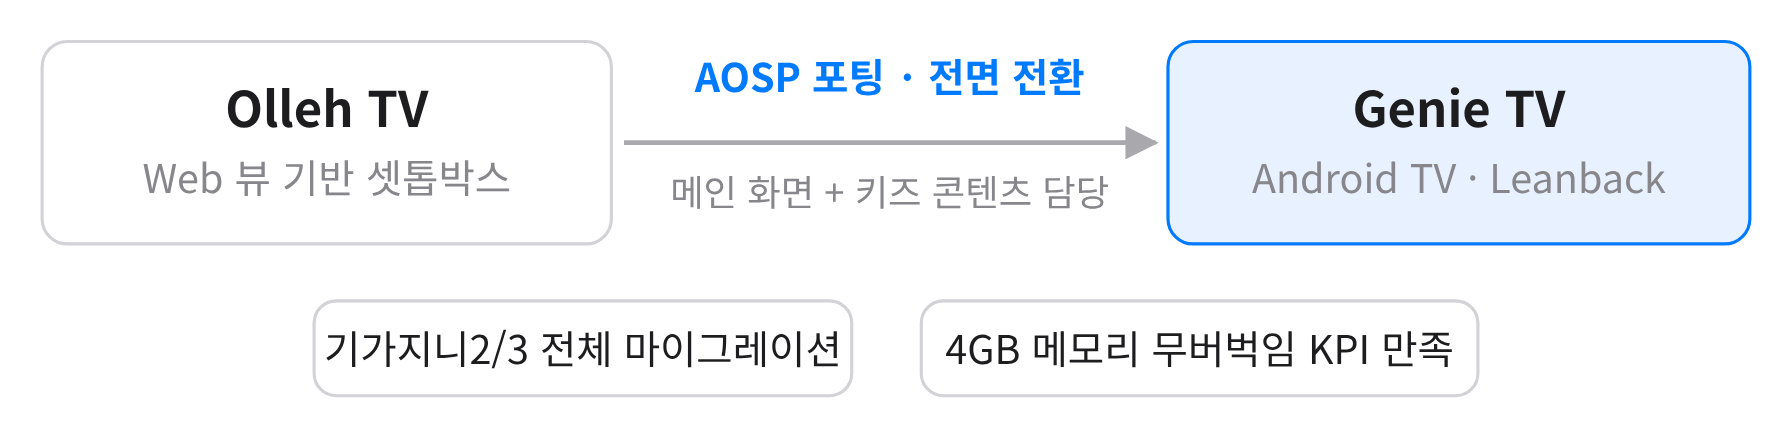
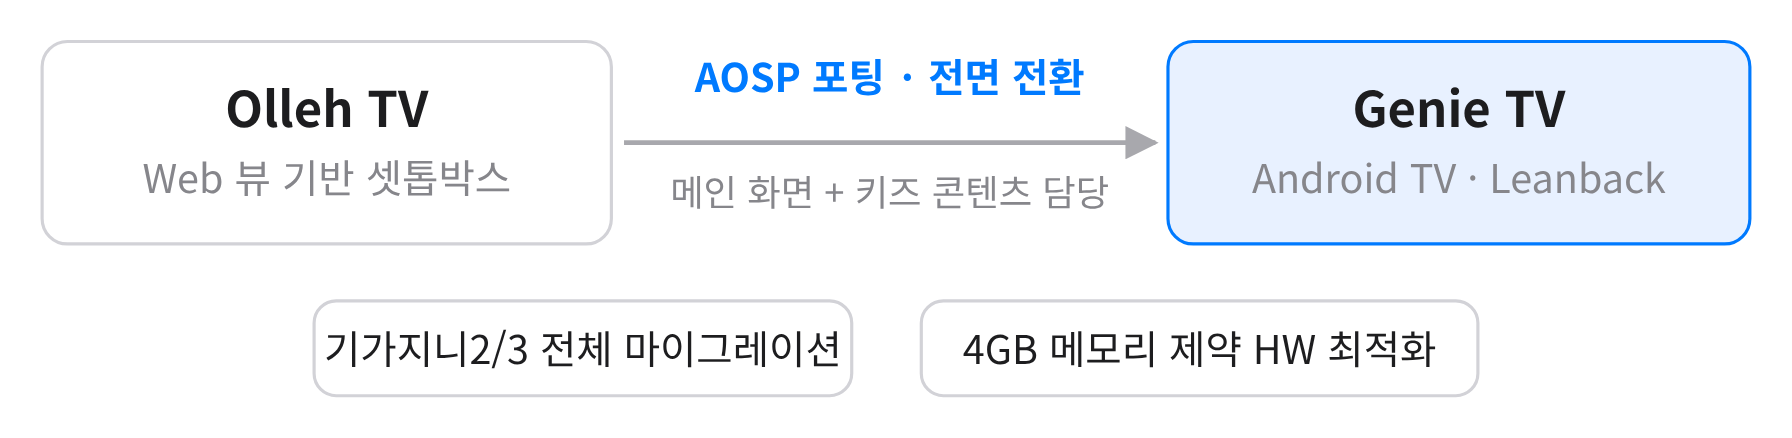
멘트 수정

Changed region(s): [[0.5312, 0.742, 0.8125, 0.8607]]

diff --git a/index.html b/index.html
@@ -54,7 +54,7 @@
                         <li><strong>Mastercard · VISA</strong> 컨택리스 LV2 인증 자체 획득</li>
                         <li><strong>안드로이드 통합 결제 멀티패드 (CU)</strong> 메인 개발 — 전국 6,000대+ 상용</li>
                         <li><strong>차세대 안드로이드 결제 단말기 (CAT)</strong> 메인 개발 — H&amp;M 매장 도입 완료</li>
-                        <li><strong>다중 VAN 통합 서명패드</strong> 회사 최초 사례 — MLB · 내셔널지오그래픽 매장</li>
+                        <li><strong>3사 통합 서명패드</strong> 회사 최초 사례 — MLB · 내셔널지오그래픽 매장</li>
                         <li><strong>주유소 무선 결제 단말기</strong> (E1 · GS칼텍스) — 일 30만 건+ 거래</li>
                         <li>KT 미디어 플랫폼 개발팀 · <strong>Olleh TV → Genie TV</strong> 안드로이드 셋톱 전환 참여</li>
                     </ul>
@@ -103,7 +103,7 @@
                         </div>
                         <h3>2. 안드로이드 통합 결제 멀티패드 (CU)</h3>
                         <div class="showcase-card-meta">
-                            <span class="badge">Android 앱 + Linux 펌웨어 + 현장 CS</span>
+                            <span class="badge">기획 · PM · 메인 개발 (앱 + 펌웨어 + 현장 CS)</span>
                             <span class="period">2025.05 ~ 2025.12 · 출고 중</span>
                         </div>
                         <p class="showcase-card-highlight">
@@ -118,7 +118,7 @@
                             </button>
                             <div class="details-content">
                                 <ul>
-                                    <li>회사 첫 자체 안드로이드 결제 멀티패드 — Android 앱 + Linux 펌웨어 메인 단독 개발 + 현장 CS 직접 대응.</li>
+                                    <li>회사 첫 자체 안드로이드 결제 멀티패드 — 사내 안드로이드 결제 앱 레퍼런스 0에서 앱 + Linux 펌웨어 단독 개발, 현장 CS 직접 대응.</li>
                                     <li>핸들러 레지스트리 패턴으로 운영 중 추가되는 결제 커맨드를 구조 변경 없이 흡수.</li>
                                     <li>시리얼 → BLE 자동 페일오버(비상 결제) 반년간 4건 실 발동.</li>
                                 </ul>
@@ -157,9 +157,9 @@
 
                     <article class="showcase-card">
                         <div class="showcase-card-img">
-                            <img class="diagram" src="img/diagram-multivan.svg" alt="다중 VAN 통합 구조 — POS 시리얼 패킷 헤더 분석으로 VAN을 자동 식별해 NICE·KIS·NPG·통합 전문 로직을 단일 코드베이스에서 매칭">
+                            <img class="diagram" src="img/diagram-multivan.svg" alt="3사 통합 서명패드 구조 — POS 시리얼 패킷 헤더 분석으로 연결된 단말기의 VAN 사양을 자동 식별해 NICE·KIS·NPG·통합 전문 로직을 단일 코드베이스에서 매칭">
                         </div>
-                        <h3>4. Linux 기반 다중 VAN 통합 서명패드</h3>
+                        <h3>4. Linux 기반 3사 통합 서명패드</h3>
                         <div class="showcase-card-meta">
                             <span class="badge">회사 최초 사례</span>
                             <span class="period">2023.05 ~ 2023.10</span>
@@ -217,7 +217,7 @@
                         </div>
                         <h3>6. 주유소 무선 결제 단말기 (E1 · GS칼텍스)</h3>
                         <div class="showcase-card-meta">
-                            <span class="badge">설계 · 개발 · 현장 테스트</span>
+                            <span class="badge">설계 · 개발</span>
                             <span class="period">2024.08 ~ 2025.08</span>
                         </div>
                         <p class="showcase-card-highlight">
@@ -233,7 +233,7 @@
                             <div class="details-content">
                                 <ul>
                                     <li>프리셋 → 주유 → 결제 다단계 트랜잭션 + 망상 취소 복구 로직.</li>
-                                    <li>현장 테스트에서 발견된 이벤트 미수신 케이스를 폭넓은 예외 처리로 차단.</li>
+                                    <li>예외 케이스 거래가 잦은 환경 — 구조 변경 없이 즉시 대응 가능한 처리 분기 설계.</li>
                                 </ul>
                             </div>
                         </div>
@@ -270,7 +270,7 @@
                             <div class="details-content">
                                 <ul>
                                     <li>Web 뷰 셋톱박스 → AOSP 기반 Android TV 대규모 마이그레이션 중 메인 화면 · 키즈 콘텐츠 담당.</li>
-                                    <li>4GB 메모리 안에서 모든 기능 버벅임 없이 동작하는 KPI 만족.</li>
+                                    <li>4GB 메모리 제약에 맞춘 HW 최적화 — 모든 기능 버벅임 없이 동작.</li>
                                 </ul>
                             </div>
                         </div>
@@ -314,10 +314,9 @@
                     <ul class="about-list">
                         <li><strong>현장 CS 직접 대응</strong> — 전국 6,000대+ CU 단말기 장애를 개발자가 직접 재현 · 분석 · 조치</li>
                         <li><strong>결제 브랜드 인증 대응</strong> — 인증사의 자체 에뮬레이터 보유 요건 충족, 브랜드별 400건+ 케이스 조율</li>
-                        <li><strong>신규 사업 제안</strong> — 3사 합병 후 통합 수요를 보고 다중 VAN 서명패드를 회사 최초 사례로 제안</li>
-                        <li><strong>기획 · PM 역할</strong> — X990 제품 기획과 일정 · 범위 관리를 개발과 함께 수행, 서브 개발자 2명 · 사내 디자이너 1명 협업</li>
-                        <li><strong>하드웨어 팀 협업</strong> — 방폭 · 온도 · 진동 조건의 단말기, 자체 RF 리더 탑재 단말기</li>
-                        <li><strong>현장 테스트 직접 수행</strong> — 전국 주유소에서 사무실에서 안 잡히는 케이스 발굴</li>
+                                                <li><strong>기획 · PM 역할</strong> — X990 · CU 멀티패드의 제품 기획과 일정 · 범위 관리를 개발과 함께 수행, 서브 개발자 2명 · 사내 디자이너 1명 협업</li>
+                        <li><strong>제조사별 HW 최적화</strong> — 제조사 · 기종마다 다른 하드웨어 특성에 맞춰 직접 최적화</li>
+                        <li><strong>현장 테스트 직접 수행</strong> — CU 멀티패드 · X990을 실제 매장 환경에서 실거래 기준으로 검증</li>
                         <li><strong>사내 세미나 강사</strong> (2026, 3회) — 안드로이드 멀티패드 아키텍처 · 설계 구조 등을 사내 개발자 대상으로 공유</li>
                         <li><strong>나이스 데이터사이언스 연구회(나데연) 회장</strong> — AI · 데이터 학습 사내 연구회 운영</li>
                     </ul>
@@ -338,8 +337,6 @@
 
             <section class="showcase-section-cta">
                 <p style="margin: 0; color: var(--text-secondary);">
-                    이력서 · 경력기술서 · STAR 기반 프로젝트 상세는 PDF로 제출본을 별도 전달합니다.
-                    <br>
                     <a href="mailto:ajpuop@naver.com">ajpuop@naver.com</a> · <a href="https://github.com/hyummys" target="_blank" rel="noopener noreferrer">github.com/hyummys</a>
                 </p>
             </section>
